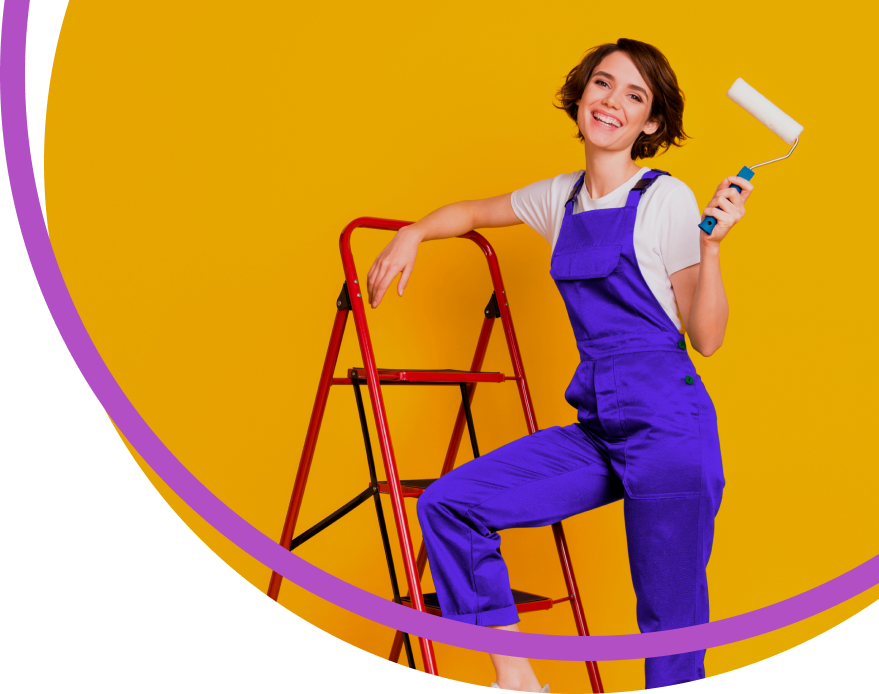
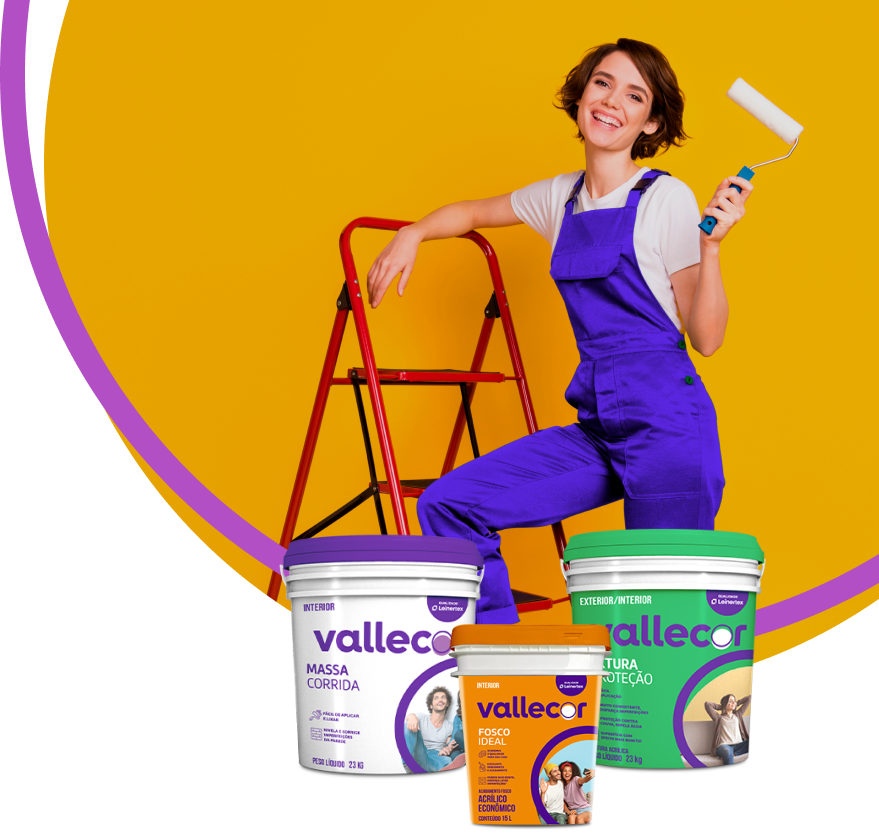
Finish Mobile Adjusts

diff --git a/src/App.vue b/src/App.vue
@@ -4,43 +4,60 @@
 
 <template>
   <main class="">
-    <section
-      class="bg-[#4F008C] bg-[url(src/assets/hero.png)] bg-no-repeat bg-right-top">
-      <div class="container mx-auto text-white py-24 max-w-6xl">
-        <img class="badge" src="src/assets/badge-white.svg"
+    <section class="
+        bg-[#4F008C] 
+          
+          md:bg-[url(src/assets/hero.png)] 
+          md:bg-right-top md:bg-[length:720px_auto]
+          bg-no-repeat">
+      <div class="container mx-auto text-white  md:py-24 max-w-6xl">
+        <img class="badge hidden md:block" src="src/assets/badge-white.svg"
           alt="Selo leinertex">
-        <div class="columns-1">
-          <img class="mb-16" src="src/assets/logo-white-.svg"
+
+        <div class="columns-1 relative text-center md:text-left">
+          <!-- LOGO MOBILE -->
+          <img class="md:hidden h-7 absolute top-8 left-6"
+            src="src/assets/logo-color.svg" alt="Logo vallecor mobile">
+
+          <!-- LOGO DESKTOP -->
+          <img class="mb-16 hidden md:block" src="src/assets/logo-white.svg"
             alt="Logo vallecor">
 
-          <h2 class="mb-16 text-5xl">Economia e qualidade <br />
+          <!-- HERO MOBILE -->
+          <img class="md:hidden" src="src/assets/hero_mobile.png"
+            alt="Hero Mobile">
+
+          <h2 class="mb-8 md:mb-16 pt-32 text-3xl md:text-5xl md:pt-0  ">
+            Economia e qualidade <br />
             <strong class="font-black">do jeito que você<br />
               sempre sonhou</strong>
           </h2>
 
           <button class="btn large blue mb-20">Conheça nossa linha</button>
 
-          <h3 class="mb-20 text-4xl">A escolha certa para quem <br />quer uma
-            <strong class="font-black">vida mais colorida</strong>.
+          <h3 class="mb-10 md:mb-20 text-2xl md:text-4xl">
+            A escolha certa para quem <br />
+            quer uma <strong class="font-black">vida mais colorida</strong>.
           </h3>
         </div>
 
-        <div class="flex items-start justify-evenly">
-          <div class="icon-wrapper">
-            <img class="icon" src="src/assets/icon-coin.svg" alt="Icon">
+        <div class="grid grid-cols-2 gap-y-8 pb-8 md:pb-4 md:grid-cols-4">
+          <div class="text-center font-black flex flex-col self-baseline">
+            <img class="icon mx-auto" src="src/assets/icon-coin.svg" alt="Icon">
             Economia na hora <br />de pintar
           </div>
-          <div class="icon-wrapper">
-            <img class="icon" src="src/assets/icon-bucket-pencil.svg"
+          <div class="text-center font-black flex flex-col self-baseline">
+            <img class="icon mx-auto" src="src/assets/icon-bucket-pencil.svg"
               alt="Icon">
             Fácil de <br />aplicar
           </div>
-          <div class="icon-wrapper">
-            <img class="icon" src="src/assets/icon-roll.svg" alt="Icon">
+          <div class="text-center font-black flex flex-col self-baseline">
+            <img class="icon mx-auto" src="src/assets/icon-roll.svg" alt="Icon">
             Boa Cobertura
           </div>
-          <div class="icon-wrapper">
-            <img class="icon" src="src/assets/icon-bucket.svg" alt="Icon">
+          <div class="text-center font-black flex flex-col self-baseline">
+            <img class="icon mx-auto" src="src/assets/icon-bucket.svg"
+              alt="Icon">
             Cores variadas <br />para ambientes <br />mais bonitos
           </div>
         </div>
@@ -48,29 +65,35 @@
 
     </section>
 
-    <section class="text-center py-20">
+    <section class="text-center pt-8 md:py-20">
 
-      <h4 class="font-black text-4xl text-[#434343] mb-11">
+      <h4 class="font-black text-2xl md:text-4xl text-[#434343] mb-11">
         Conheça nossas linhas de produtos
       </h4>
 
-      <div class="container mx-auto max-w-6xl flex flex-col gap-12">
-        <div class="bg-[#8B2FAE] card-product flex-row-reverse justify-between">
-          <img class="card-product__image " src="src/assets/Group 126.png"
-            alt="Product" />
+      <div class="flex overflow-x-scroll md:overflow-x-hidden 
+        px-3 gap-4 md:gap-12 pt-[80px] pb-7 md:pt-0 md:pb-0
+        md:container md:mx-auto md:max-w-6xl md:flex-col ">
+
+        <div
+          class="bg-[#8B2FAE] rounded-lg md:flex min-w-[320px] md:w-auto text-white px-5 md:px-10 py-5 flex-row-reverse justify-between">
+          <img class="card-product__image mt-[-100px] md:mt-0"
+            src="src/assets/Group 126.png" alt="Product" />
 
           <div
-            class="card-product__text-wrapper text-left flex flex-1 gap-5 justify-around">
+            class="xxx md:text-left flex flex-col md:flex-row flex-1 gap-5 justify-around">
             <div class="flex flex-col justify-around">
-              <h5 class="text-5xl font-black mb-1">Fosco Ideal</h5>
+              <h5 class="text-4xl md:text-5xl font-black mb-1">Fosco Ideal</h5>
 
               <p class="text-sm mb-5">Disponibilidade:</p>
-              <div class="flex items-baseline gap-8">
+
+              <div
+                class="flex items-baseline justify-center md:justify-start gap-8">
                 <img src="src/assets/bucket-size-icon-36l.svg" alt="">
                 <img src="src/assets/bucket-size-icon-15l.svg" alt="">
               </div>
 
-              <div class="flex">
+              <div class="hidden md:flex">
                 <button class="btn yellow">Ver Cores</button>
                 <button class="btn-download">
                   <span class="material-symbols-outlined">download</span>
@@ -82,30 +105,46 @@
               </div>
             </div>
 
-            <div class="flex flex-col justify-around font-black max-w-[180px]">
+            <div
+              class="flex flex-col justify-around  font-black max-w-[180px] gap-y-5 md:gap-y-1 text-left self-center md:self-auto">
               <p>Economia e qualidade para sua casa</p>
               <p>Excelente rendimento e acabamento</p>
               <p>Parede mais bonita, disfarça leves imperfeições*</p>
             </div>
+
+            <div class="flex md:hidden">
+              <button class="btn yellow">Ver Cores</button>
+              <button class="btn-download">
+                <span class="material-symbols-outlined">download</span>
+                <p class="m-0 pl-2 flex flex-col">
+                  <strong class="font-black">DOWNLOAD</strong>
+                  FICHA TÉCNICA
+                </p>
+              </button>
+            </div>
           </div>
         </div>
 
-        <div class="bg-[#37C0C9] card-product flex justify-between">
+        <div
+          class="bg-[#37C0C9] rounded-lg md:flex min-w-[320px] md:w-auto text-white px-10 py-5 justify-between">
           <img class="card-product__image " src="src/assets/Group 130.png"
             alt="Product" />
 
           <div
-            class="card-product__text-wrapper text-left flex flex-1 gap-5 justify-around">
+            class="xxx text-center md:text-left flex flex-col md:flex-row flex-1 gap-5 justify-around">
             <div class="flex flex-col justify-around">
-              <h5 class="text-5xl font-black mb-1">Massa Corrida</h5>
+              <h5 class="text-4xl md:text-5xl font-black mb-1">Massa Corrida
+              </h5>
 
               <p class="text-sm mb-5">Disponibilidade:</p>
-              <div class="flex items-baseline gap-8">
+
+              <div
+                class="flex items-baseline justify-center md:justify-start gap-8">
                 <img src="src/assets/bucket-size-icon-36l.svg" alt="">
                 <img src="src/assets/bucket-size-icon-15l.svg" alt="">
               </div>
 
-              <div class="flex">
+              <div class="hidden md:flex">
                 <button class="btn yellow">Ver Cores</button>
                 <button class="btn-download">
                   <span class="material-symbols-outlined">download</span>
@@ -124,22 +163,26 @@
           </div>
         </div>
 
-        <div class="bg-[#FF9E32] card-product flex-row-reverse justify-between">
+        <div
+          class="bg-[#FF9E32] rounded-lg md:flex min-w-[320px] md:w-auto text-white px-10 py-5 flex-row-reverse justify-between">
           <img class="card-product__image " src="src/assets/Group 154.png"
             alt="Product" />
 
           <div
-            class="card-product__text-wrapper text-left flex flex-1 gap-5 justify-around">
+            class="xxx text-center md:text-left flex flex-col md:flex-row flex-1 gap-5 justify-around">
             <div class="flex flex-col justify-around">
-              <h5 class="text-5xl font-black mb-1">Esmalte Sintético</h5>
+              <h5 class="text-4xl md:text-5xl font-black mb-1">Esmalte Sintético
+              </h5>
 
               <p class="text-sm mb-5">Disponibilidade:</p>
-              <div class="flex items-baseline gap-8">
+
+              <div
+                class="flex items-baseline justify-center md:justify-start gap-8">
                 <img src="src/assets/bucket-size-icon-36l.svg" alt="">
                 <img src="src/assets/bucket-size-icon-15l.svg" alt="">
               </div>
 
-              <div class="flex">
+              <div class="hidden md:flex">
                 <button class="btn yellow">Ver Cores</button>
                 <button class="btn-download">
                   <span class="material-symbols-outlined">download</span>
@@ -162,14 +205,14 @@
       </div>
     </section>
 
-    <section class="flex text-white">
-      <div class="bg-[#13467E] flex-1">
+    <section class="flex text-white flex-wrap">
+      <div class="bg-[#13467E] md:flex-1 w-full">
         <div class="flex justify-end">
           <img src="src/assets/sofa.png" alt="Imagem sofá" />
         </div>
 
-        <div class="max-w-sm mx-auto my-10">
-          <h6 class="text-4xl mb-5">Vale a pena <br />
+        <div class="max-w-sm mx-auto my-10 px-6 md:p-0">
+          <h6 class="text-3xl md:text-4xl mb-5">Vale a pena <br />
             <strong class="font-black">mudar de cor!</strong>
           </h6>
           <p>
@@ -179,13 +222,13 @@
         </div>
       </div>
 
-      <div class="bg-[#37C0C9] flex-1">
+      <div class="bg-[#37C0C9] md:flex-1 w-full">
         <div class="flex justify-end">
           <img src="src/assets/pintor.png" alt="Imagem sofá">
         </div>
 
-        <div class="max-w-sm mx-auto my-10">
-          <h6 class="text-4xl mb-5">
+        <div class="max-w-sm mx-auto my-10 px-6 md:p-0">
+          <h6 class="text-3xl md:text-4xl mb-5">
             <strong class="font-black">Você é pintor?</strong><br />
             Então vai se apaixonar!
           </h6>
@@ -200,13 +243,14 @@
     </section>
 
     <section class="flex flex-center text-center">
-      <div class="container mx-auto py-11 max-w-4xl">
-        <div class="font-black text-4xl text-[#434343] my-11 ">Dúvidas
-          Frequentes</div>
+      <div class="container mx-auto py-11 max-w-4xl px-5 md:px-0">
+        <div class="font-black text-2xl md:text-4xl text-[#434343] mb-11">
+          Dúvidas Frequentes
+        </div>
 
         <div class="accordion border-b text-left">
           <div
-            class="text-[#13467E] font-black text-xl flex justify-between py-5">
+            class="text-[#13467E] font-black text-xl flex items-start md:items-center justify-between py-5">
             Lorem ipsum dolor sit amet, consectetur adipiscing elitaecenas id ex
             porttitor?
             <span
@@ -245,11 +289,12 @@
               quis aliquet.</p>
           </div>
         </div>
+
       </div>
     </section>
 
     <section class="bg-[#4F008C] py-16 text-white relative min-h-0 h-auto">
-      <img class="absolute wid top-[-48px] right-0 "
+      <img class="hidden md:block absolute top-[-48px] right-0 "
         src="src/assets/right-decorator.svg" alt="Decorator">
       <div class="container mx-auto text-center max-w-3xl">
 
@@ -259,7 +304,8 @@
           <span class="font-black">Cadastre-se!</span>
         </h4>
 
-        <form action="" class="grid grid-cols-2 gap-x-8 gap-y-4 mb-10">
+        <form action=""
+          class="grid grid-cols-1 md:grid-cols-2 gap-x-8 gap-y-4 mb-10 px-5">
           <div class="flex flex-col items-start">
             <label class="ml-2 font-black" for="name">Seu nome</label>
             <input
@@ -290,17 +336,23 @@
       </div>
     </section>
   </main>
-  <footer class="relative flex justify-around py-12">
-    <img class="absolute top-0 translate-y-[-50%] left-0"
+
+  <footer class="relative flex justify-between px-6 md:justify-around py-12">
+    <img class=" hidden md:block absolute top-0 translate-y-[-50%] left-0"
       src="src/assets/frame-form-before.svg" alt="Decorator">
-    <img class="absolute top-0 left-[50%] translate-x-[-50%]"
+
+    <img
+      class=" w-[100px] md:w-auto absolute top-0 left-[50%] translate-x-[-50%]"
       src="src/assets/badge-purple.svg" alt="Decorator">
 
-    <img class="mr-[170px]" src="src/assets/logo-color-.svg"
-      alt="Logo Vallecor">
+    <img class="h-[26px] md:h-auto md:mr-[170px]"
+      src="src/assets/logo-color.svg" alt="Logo Vallecor">
 
     <div class="flex flex-col">
-      <span class="text-gray-500">Central de Atendimento</span>
+      <span
+        class="text-gray-500 max-w-[100px] md:max-w-none leading-none">Central
+        de
+        Atendimento</span>
       <a class="font-black" href="tel:08007044244">0800 704 4244</a>
     </div>
   </footer>
@@ -348,7 +400,7 @@ section {
 }
 
 .btn-download {
-  @apply flex items-center px-4 py-1 leading-none text-[#FFE600];
+  @apply flex items-center text-sm px-4 py-1 leading-none text-[#FFE600];
 }
 
 .icon-wrapper {
